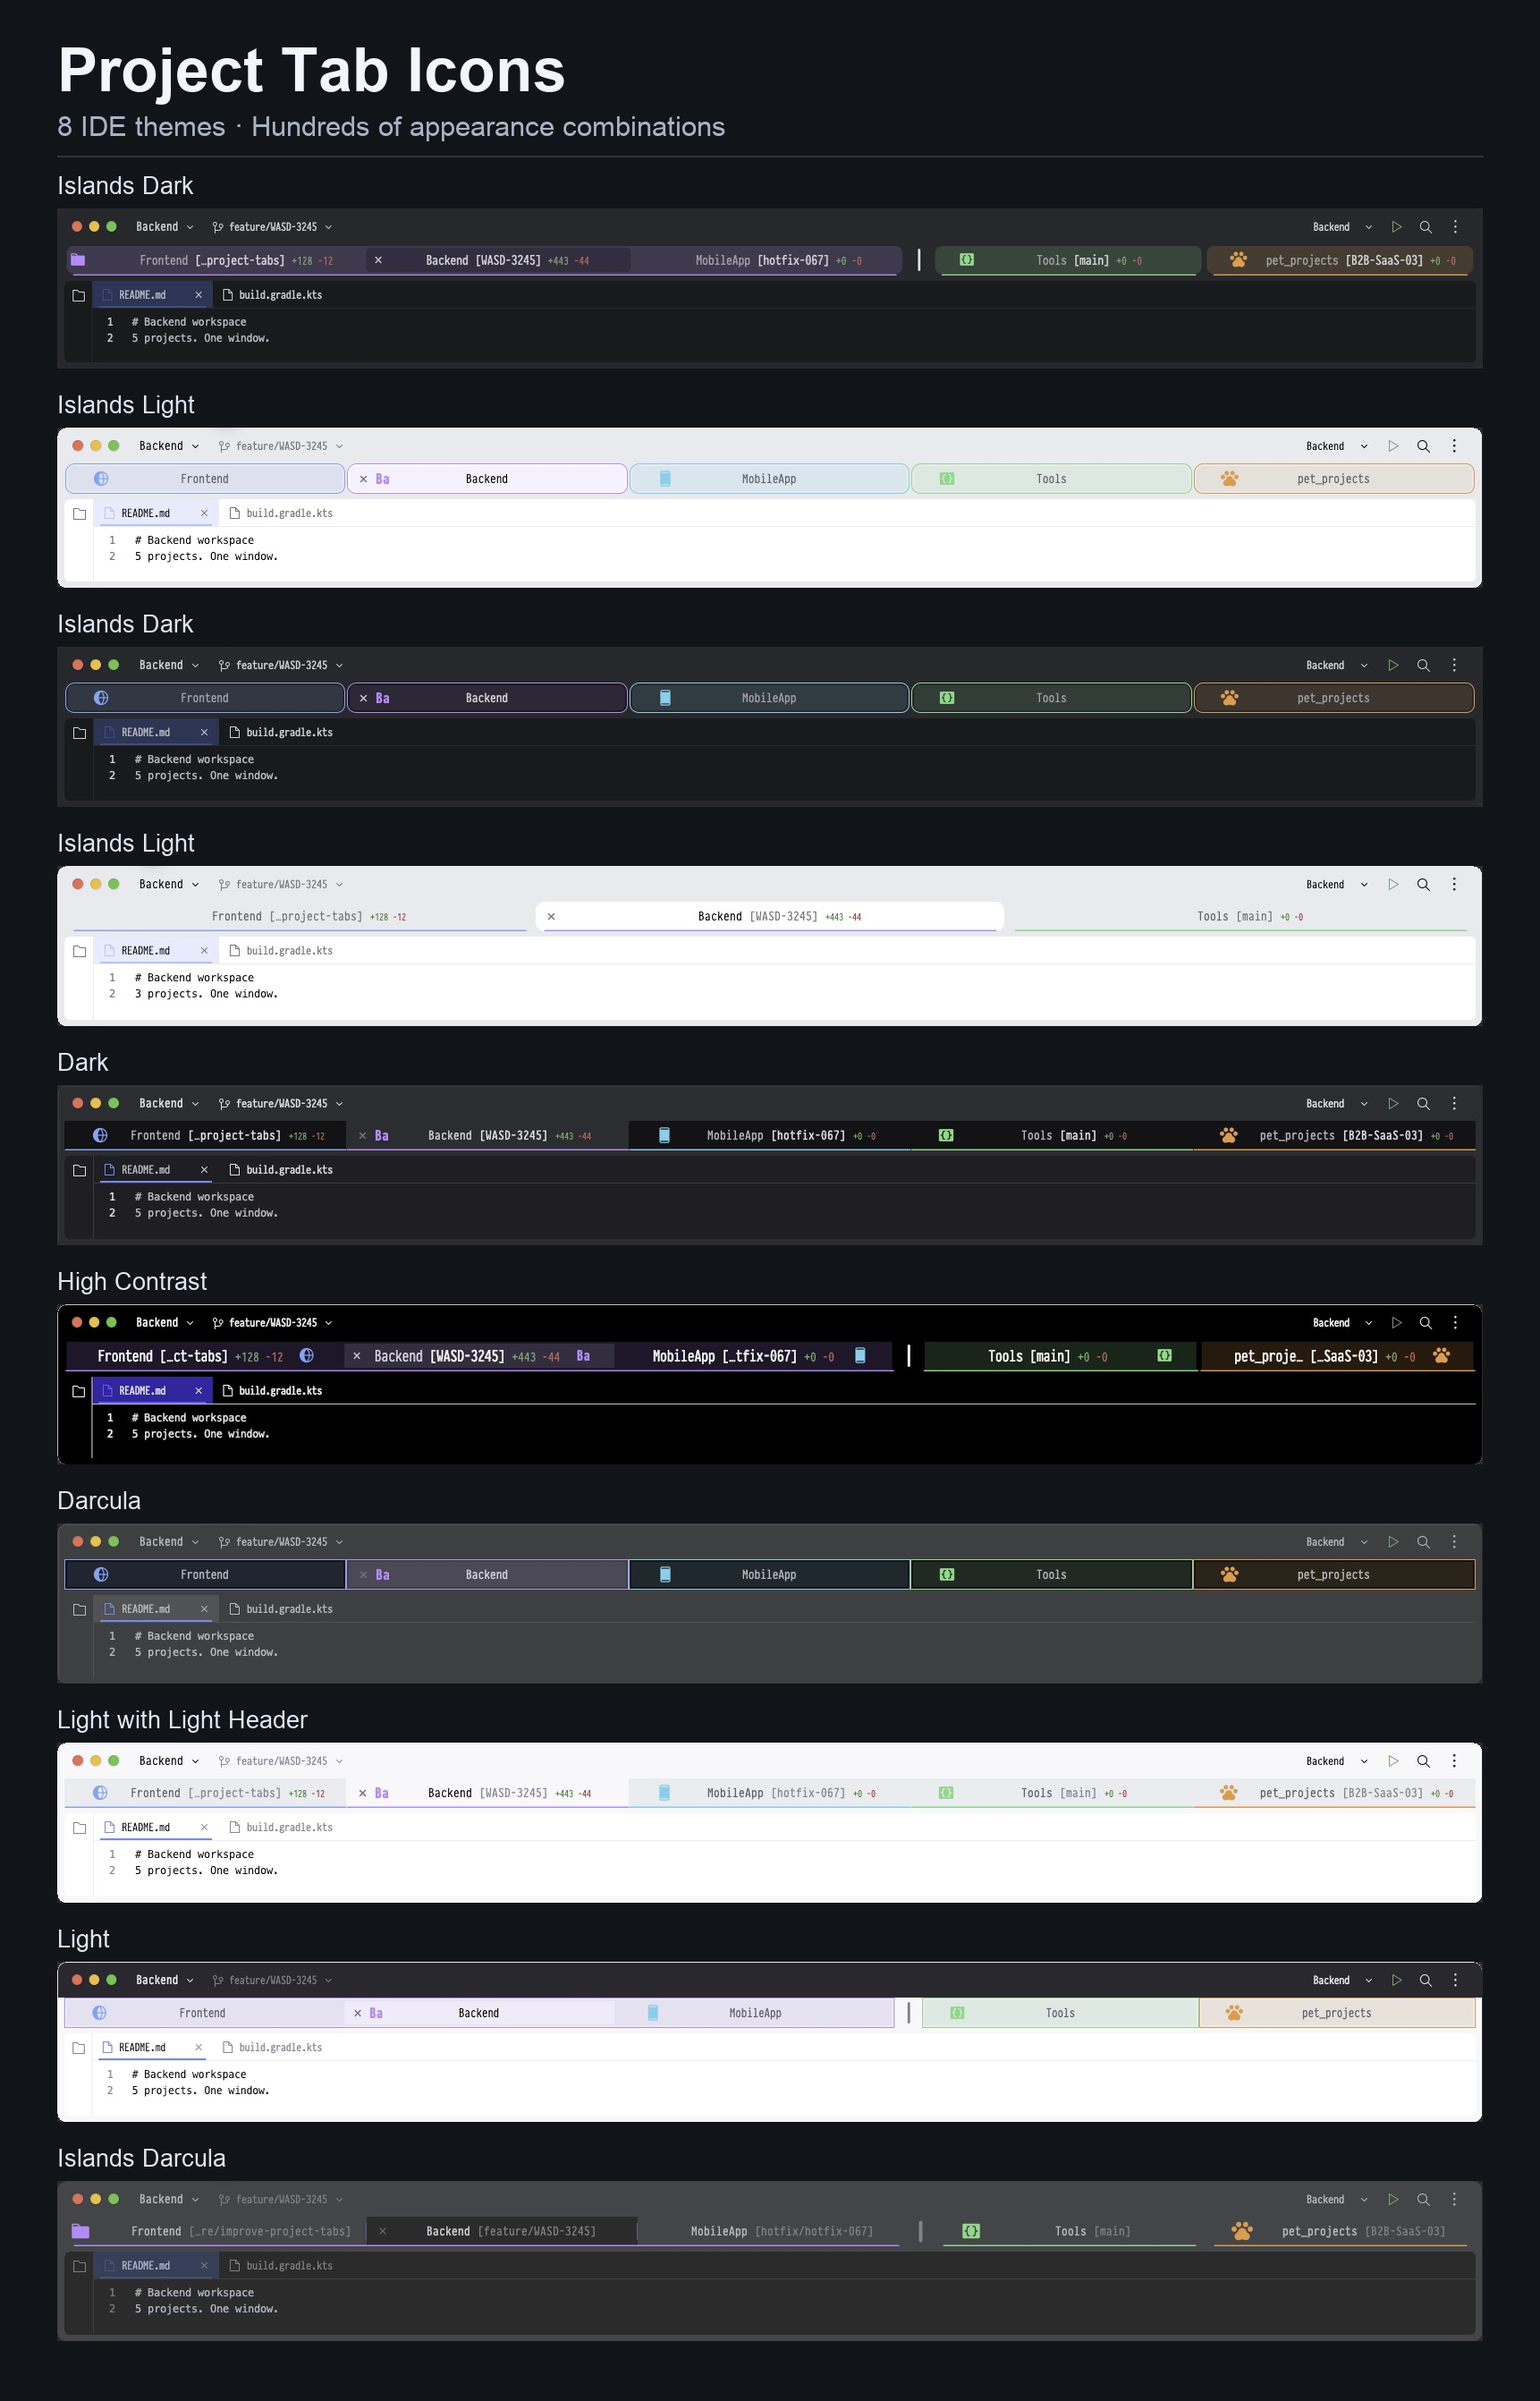
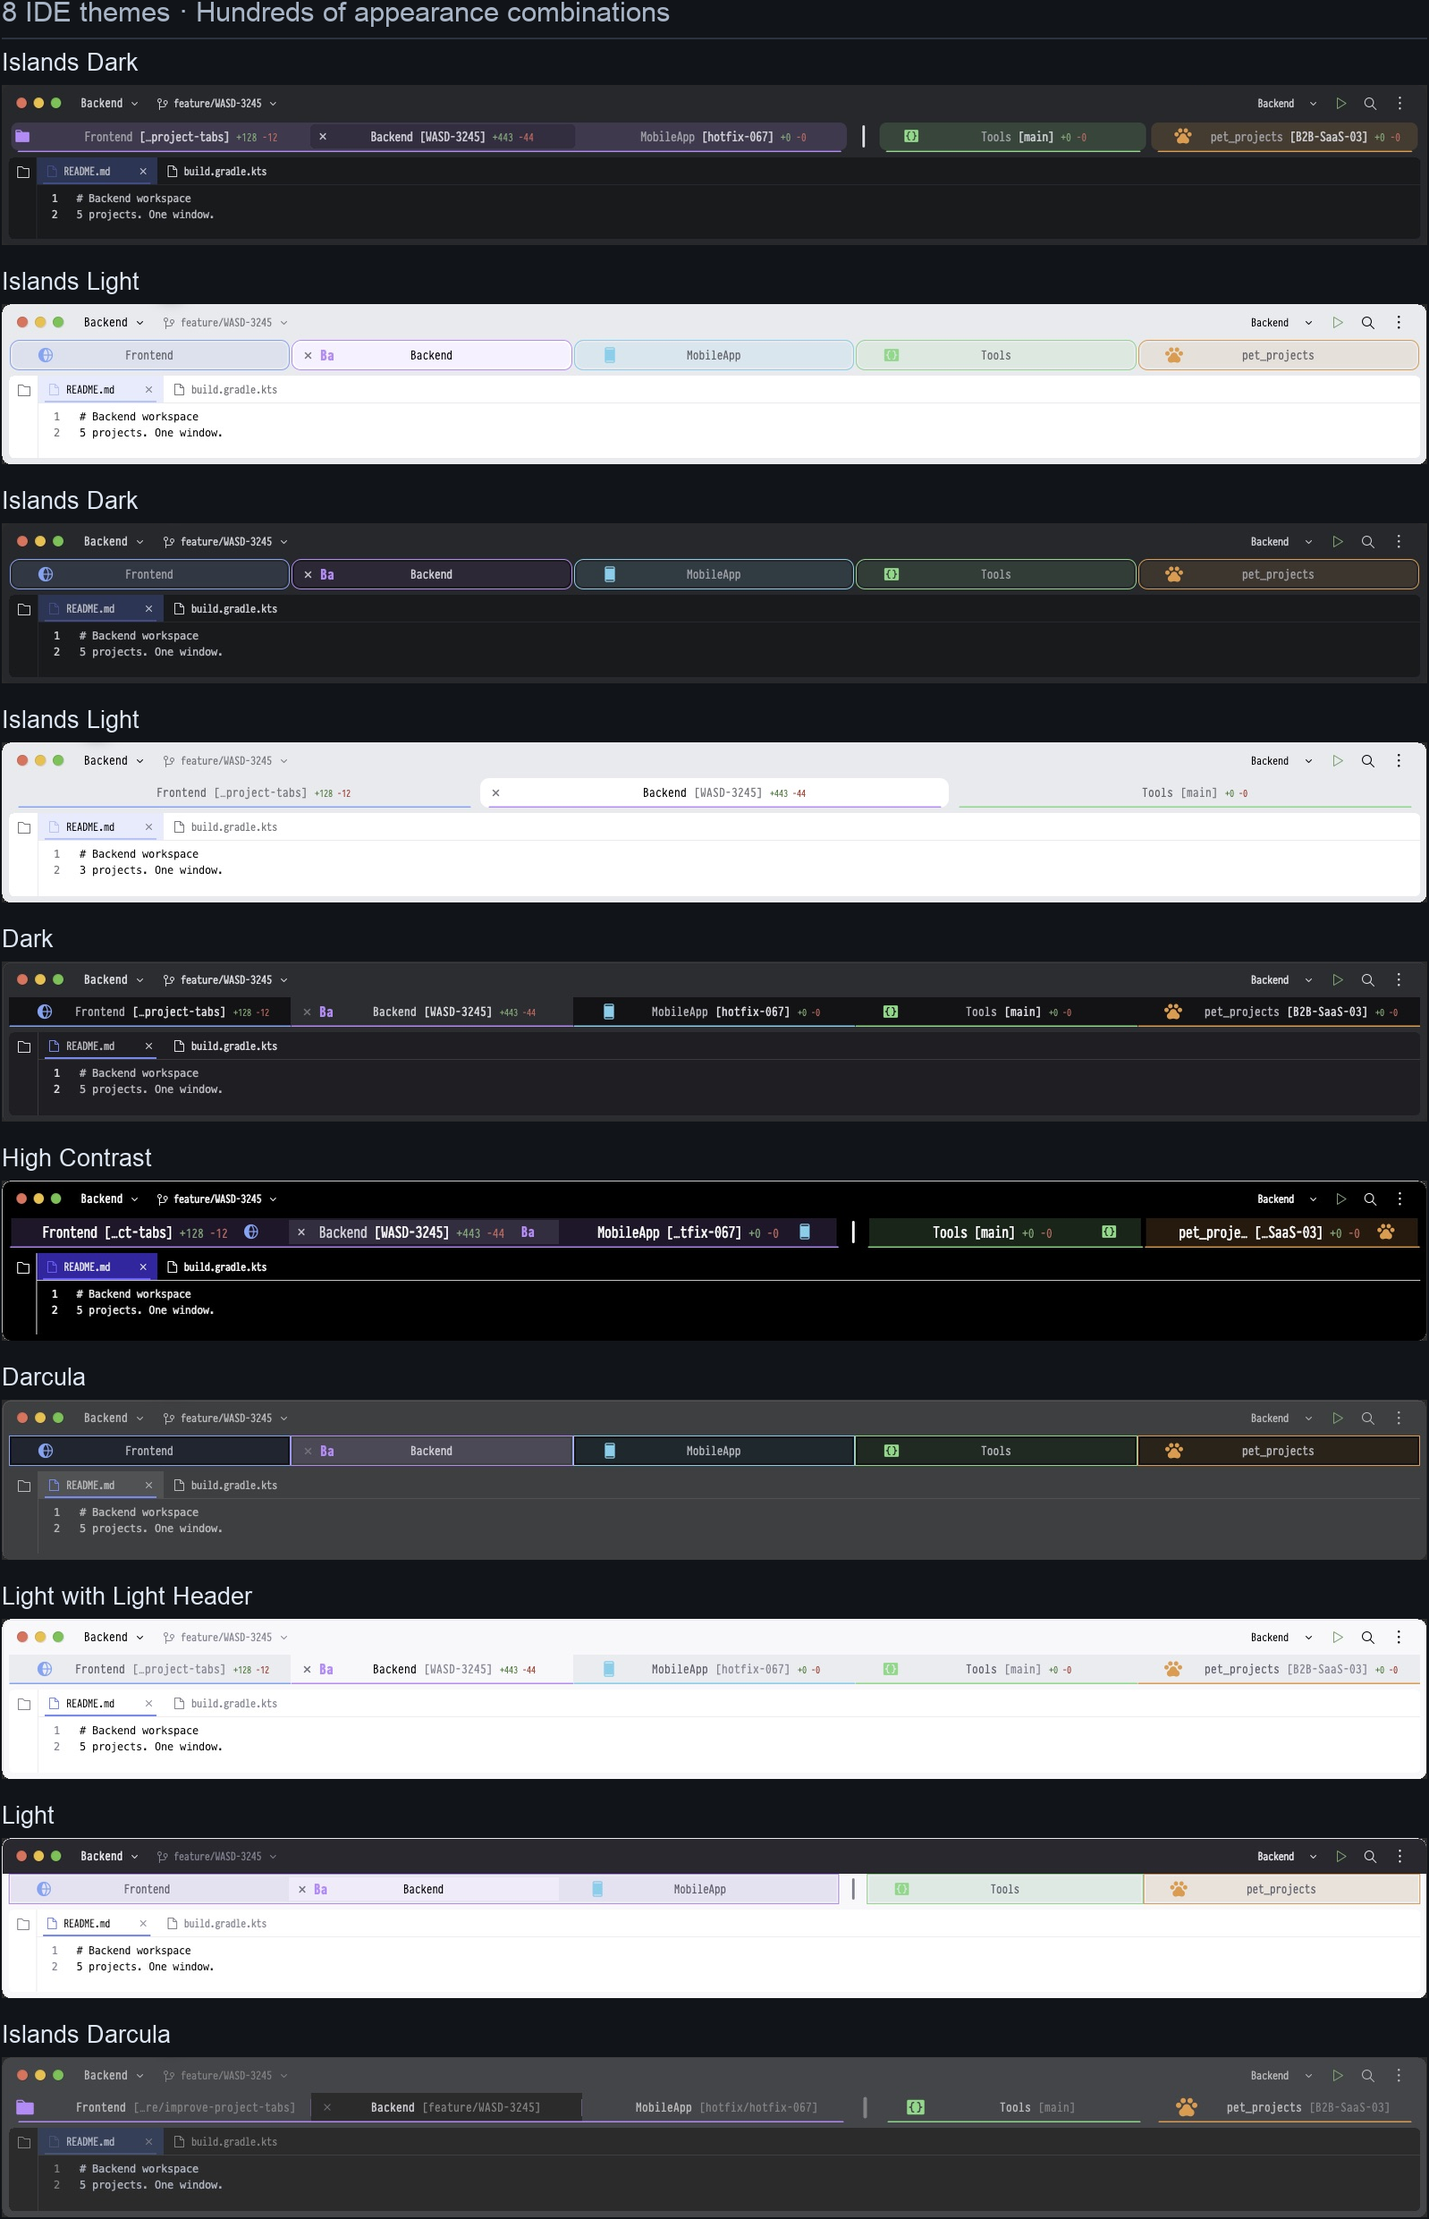
Remove gallery title and use 2 px outer margins

diff --git a/docs/media/README.md b/docs/media/README.md
@@ -2,8 +2,8 @@
 
 The README's main gallery, `appearance-gallery.png`, contains **ten real Preview
 frames** from installed **0.3.84/0.3.85**, captured on **21 October 2026**. All eight
-IDE themes are represented. Each window is 1594 × 179 px; the slide is 1722 × 2684 px
-in one column. Captions contain only theme names. The header describes hundreds of
+IDE themes are represented. Each window is 1594 × 179 px; the slide is 1598 × 2481 px
+in one column, with 2 px outer margins and no Project Tab Icons title. Captions contain only theme names. The header describes hundreds of
 possible combinations; ten screenshots illustrate a selection. The first frame uses
 the current custom appearance, High Contrast uses larger text and right-side icons,
 and Light includes the corrected tab palette. Three recaptures were normalized in
